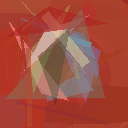
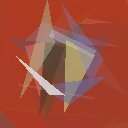
ellipsis are now not necessarily parallel to axis

diff --git a/ga_shapes/gen.py b/ga_shapes/gen.py
@@ -23,10 +23,16 @@ class AbstractGene(ABC):
 
 class EllipseGene(AbstractGene):
     def __init__(self):
-        self.cx = random.randint(0, WIDTH - 1)
-        self.cy = random.randint(0, HEIGHT - 1)
-        self.rx = random.randint(1, WIDTH)
-        self.ry = random.randint(1, HEIGHT)
+        # two focal points
+        self.f1x = random.randint(0, WIDTH - 1)
+        self.f1y = random.randint(0, HEIGHT - 1)
+        self.f2x = random.randint(0, WIDTH - 1)
+        self.f2y = random.randint(0, HEIGHT - 1)
+
+        # sum of distances to focuses
+        focal_distance = np.sqrt((self.f2x - self.f1x) ** 2 + (self.f2y - self.f1y) ** 2)
+        self.sum_distances = random.uniform(focal_distance + 1, max(WIDTH, HEIGHT) * 2)
+
         self.color = np.array(
             [random.randint(0, 255) for _ in range(3)],
             dtype=np.float32,
@@ -34,22 +40,27 @@ class EllipseGene(AbstractGene):
         self.alpha = random.uniform(0.0, 1.0)
 
     def mutate(self):
-        # Локовые сдвиги координат и размеров
-        self.cx = int(np.clip(
-            self.cx + np.random.normal(0, GENE_MUTATION_SIGMA_POS),
+        self.f1x = int(np.clip(
+            self.f1x + np.random.normal(0, GENE_MUTATION_SIGMA_POS),
             0, WIDTH - 1
         ))
-        self.cy = int(np.clip(
-            self.cy + np.random.normal(0, GENE_MUTATION_SIGMA_POS),
+        self.f1y = int(np.clip(
+            self.f1y + np.random.normal(0, GENE_MUTATION_SIGMA_POS),
             0, HEIGHT - 1
         ))
-        self.rx = int(np.clip(
-            self.rx + np.random.normal(0, GENE_MUTATION_SIGMA_SIZE),
-            1, WIDTH
+        self.f2x = int(np.clip(
+            self.f2x + np.random.normal(0, GENE_MUTATION_SIGMA_POS),
+            0, WIDTH - 1
         ))
-        self.ry = int(np.clip(
-            self.ry + np.random.normal(0, GENE_MUTATION_SIGMA_SIZE),
-            1, HEIGHT
+        self.f2y = int(np.clip(
+            self.f2y + np.random.normal(0, GENE_MUTATION_SIGMA_POS),
+            0, HEIGHT - 1
+        ))
+        focal_distance = np.sqrt((self.f2x - self.f1x) ** 2 + (self.f2y - self.f1y) ** 2)
+        self.sum_distances = float(np.clip(
+            self.sum_distances + np.random.normal(0, GENE_MUTATION_SIGMA_SIZE),
+            focal_distance + 1,  # should be at least focal distance
+            max(WIDTH, HEIGHT) * 2
         ))
 
         # Цвет
@@ -65,19 +76,43 @@ class EllipseGene(AbstractGene):
         ))
 
     def apply(self, canvas: np.ndarray) -> None:
-        mask = Image.new("L", IMAGE_SIZE, 0)
-        draw = ImageDraw.Draw(mask)
-        bbox = [self.cx - self.rx,
-                self.cy - self.ry,
-                self.cx + self.rx,
-                self.cy + self.ry]
-        draw.ellipse(bbox, fill=255)
-        mask_np = np.array(mask, dtype=np.float32) / 255.0
+        height, width, _ = canvas.shape
 
+        # Bounding Box
+        max_radius = int(self.sum_distances / 2) + 1
+
+        center_x = (self.f1x + self.f2x) // 2
+        center_y = (self.f1y + self.f2y) // 2
+
+        y_min = max(0, center_y - max_radius)
+        y_max = min(height, center_y + max_radius)
+        x_min = max(0, center_x - max_radius)
+        x_max = min(width, center_x + max_radius)
+
+        if x_min >= x_max or y_min >= y_max:
+            return
+
+        # Coordinate grid
+        y_grid, x_grid = np.ogrid[y_min:y_max, x_min:x_max]
+
+        # distances to focus points
+        d1 = np.sqrt((x_grid - self.f1x) ** 2 + (y_grid - self.f1y) ** 2)
+        d2 = np.sqrt((x_grid - self.f2x) ** 2 + (y_grid - self.f2y) ** 2)
+
+        # mask in/out of ellipsis
+        mask_bool = (d1 + d2) <= self.sum_distances
+
+        if not np.any(mask_bool):
+            return
+
+        mask = mask_bool.astype(np.float32)
+
+        # color mixing
+        canvas_roi = canvas[y_min:y_max, x_min:x_max]
         for c in range(3):
-            canvas[:, :, c] = (
-                (1.0 - self.alpha * mask_np) * canvas[:, :, c]
-                + self.alpha * mask_np * self.color[c]
+            canvas_roi[:, :, c] = (
+                    (1.0 - self.alpha * mask) * canvas_roi[:, :, c]
+                    + self.alpha * mask * self.color[c]
             )
 
 

diff --git a/config.py b/config.py
@@ -14,7 +14,7 @@ SAVE_EVERY_N_GENERATIONS = 50
 OUTPUT_DIR = "outputs"
 
 # Reproducibility (optional)
-RANDOM_SEED = 42
+RANDOM_SEED = 239
 
 GENE_LOCAL_MUTATION_PROB = 0.8  # например 80% локальный сдвиг, 20% полный ресет
 
